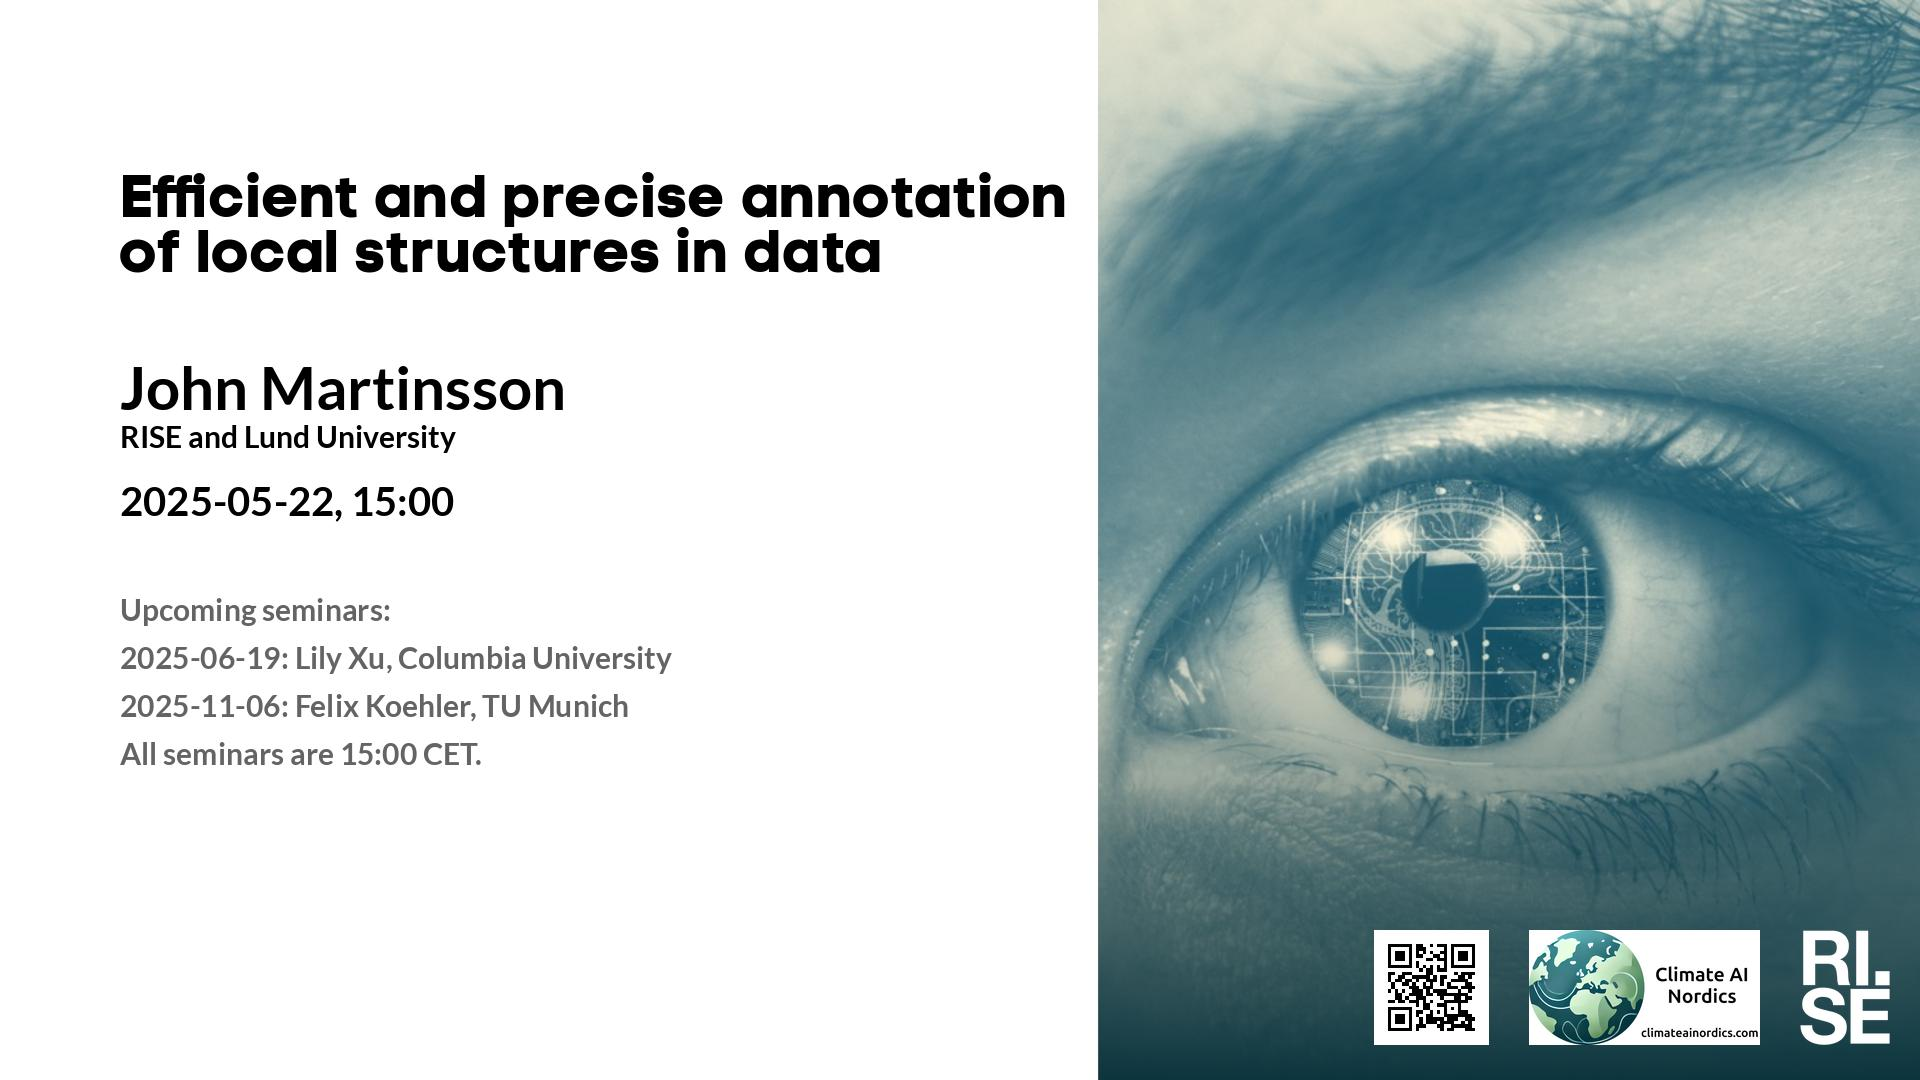
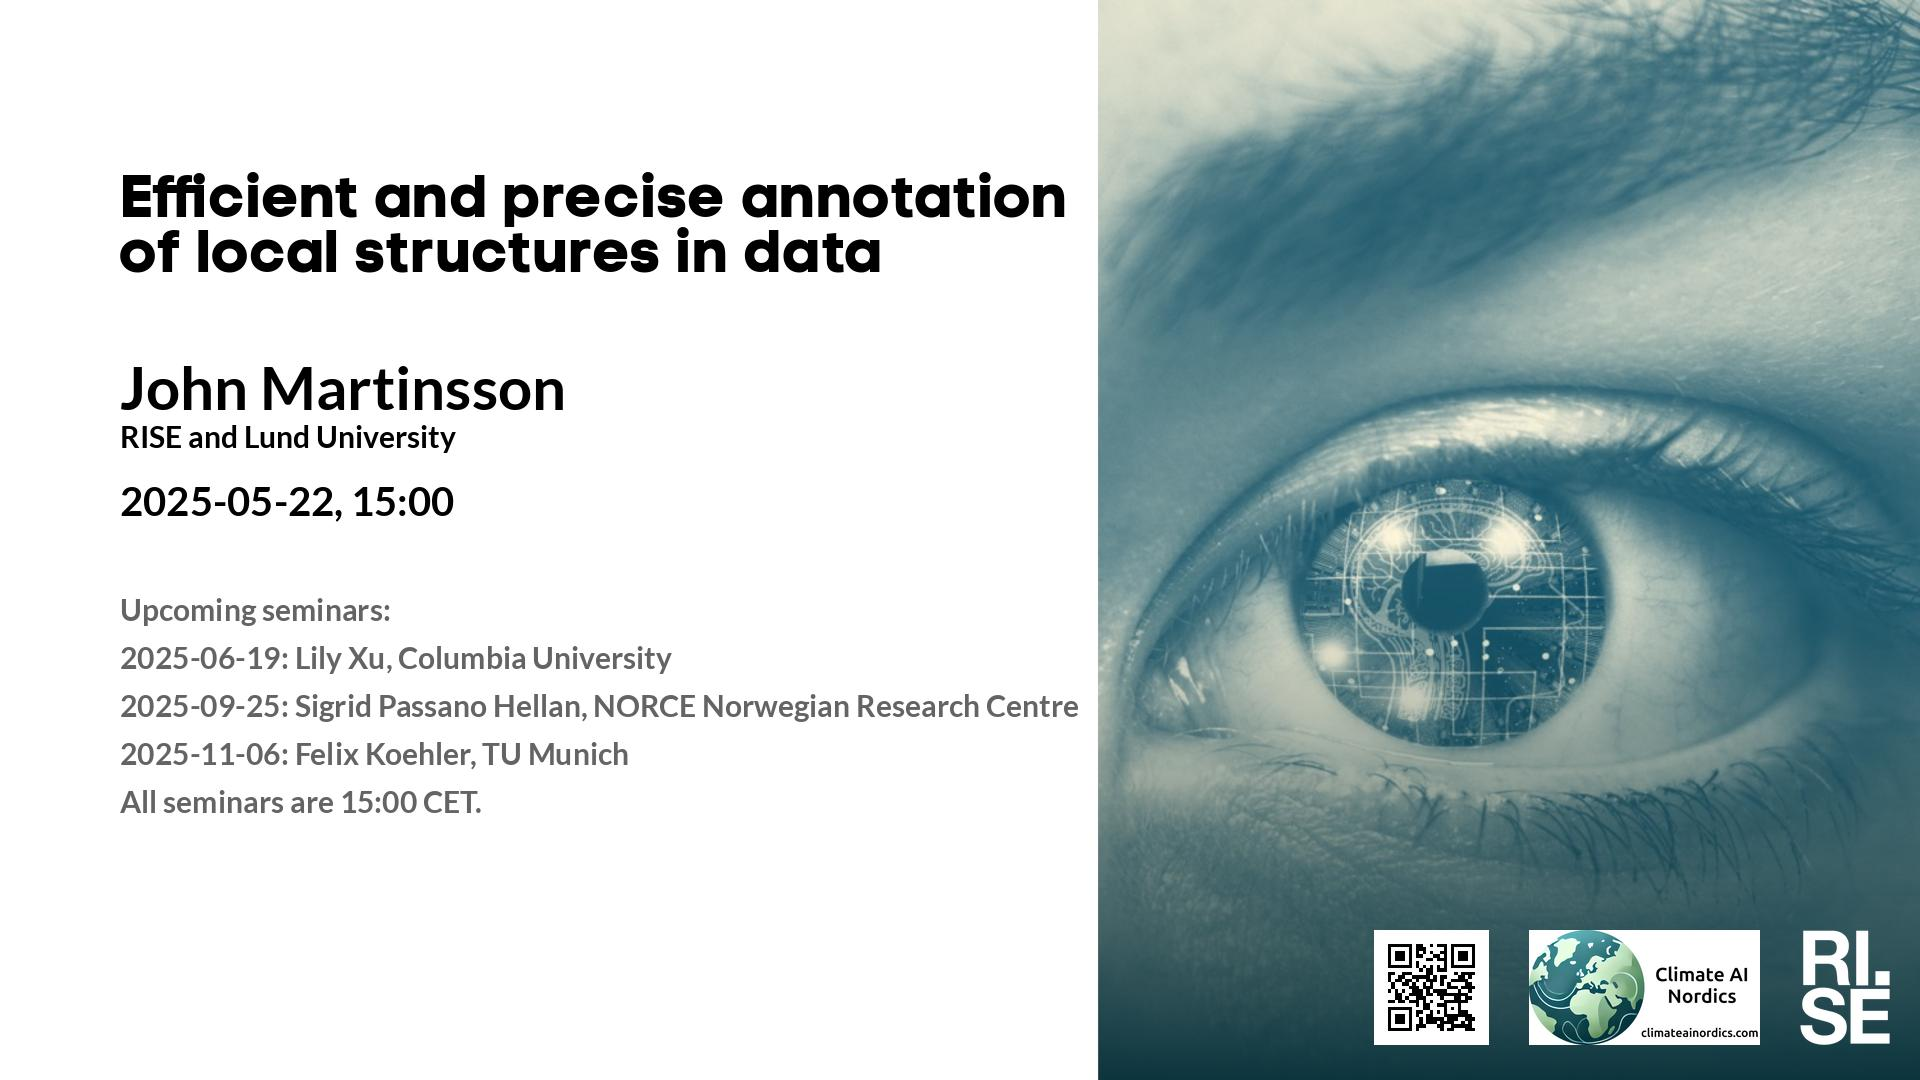
Updated plan on web site.

Changed region(s): [[0.0625, 0.6417, 0.5625, 0.7639]]

diff --git a/lm/2025.md b/lm/2025.md
@@ -30,7 +30,7 @@ table {border-collapse: collapse;}
 |  2025-05-22  |  [John Martinsson, RISE and Lund University](2025-05-22.md)  |  [photo](2025-05-22-photo-john-martinsson.png)  |  [social media ](2025-05-22-social-media-john-martinsson.jpg)  |  [meeting backdrop ](2025-05-22-meeting-backdrop-john-martinsson.jpg)  |  [youtube thumbnail ](2025-05-22-youtube-thumbnail-john-martinsson.jpg)  |  STABP  |
 | <span style="color:red"> 2025-05-29 </span> | <span style="color:red"> Ascension Day  </span> | <span style="color:red">  </span> | <span style="color:red">  </span> | <span style="color:red">  </span> | <span style="color:red">  </span> | <span style="color:red"> CANCELLED </span> |
 | <span style="color:red"> 2025-06-05 </span> | <span style="color:red"> No Seminar </span> | <span style="color:red">  </span> | <span style="color:red">  </span> | <span style="color:red">  </span> | <span style="color:red">  </span> | <span style="color:red"> CANCELLED </span> |
-| <span style="color:grey"> 2025-06-12 </span> | <span style="color:grey"> Georges L. B. ? </span> | <span style="color:grey">  </span> | <span style="color:grey">  </span> | <span style="color:grey">  </span> | <span style="color:grey">  </span> | <span style="color:grey"> S~~TABP~~ </span> |
+| <span style="color:grey"> 2025-06-12 </span> | <span style="color:grey"> Markus P. ? </span> | <span style="color:grey">  </span> | <span style="color:grey">  </span> | <span style="color:grey">  </span> | <span style="color:grey">  </span> | <span style="color:grey"> S~~TABP~~ </span> |
 |  2025-06-19  |  [Lily Xu, Columbia University](2025-06-19.md)  |    |  [social media ](2025-06-19-social-media-lily-xu.jpg)  |  [meeting backdrop ](2025-06-19-meeting-backdrop-lily-xu.jpg)  |  [youtube thumbnail ](2025-06-19-youtube-thumbnail-lily-xu.jpg)  |  S~~TABP~~  |
 | <span style="color:purple"> 2025-08-28 </span> | <span style="color:purple"> *Up for grabs!!!* </span> | <span style="color:purple">  </span> | <span style="color:purple">  </span> | <span style="color:purple">  </span> | <span style="color:purple">  </span> | <span style="color:purple"> ~~STABP~~ </span> |
 | <span style="color:grey"> 2025-09-11 </span> | <span style="color:grey"> Natalie E. ? </span> | <span style="color:grey">  </span> | <span style="color:grey">  </span> | <span style="color:grey">  </span> | <span style="color:grey">  </span> | <span style="color:grey"> S~~TABP~~ </span> |

diff --git a/lm/index.md b/lm/index.md
@@ -30,7 +30,7 @@ table {border-collapse: collapse;}
 |  2025-05-22  |  [John Martinsson, RISE and Lund University](2025-05-22.md)  |  [photo](2025-05-22-photo-john-martinsson.png)  |  [social media ](2025-05-22-social-media-john-martinsson.jpg)  |  [meeting backdrop ](2025-05-22-meeting-backdrop-john-martinsson.jpg)  |  [youtube thumbnail ](2025-05-22-youtube-thumbnail-john-martinsson.jpg)  |  STABP  |
 | <span style="color:red"> 2025-05-29 </span> | <span style="color:red"> Ascension Day  </span> | <span style="color:red">  </span> | <span style="color:red">  </span> | <span style="color:red">  </span> | <span style="color:red">  </span> | <span style="color:red"> CANCELLED </span> |
 | <span style="color:red"> 2025-06-05 </span> | <span style="color:red"> No Seminar </span> | <span style="color:red">  </span> | <span style="color:red">  </span> | <span style="color:red">  </span> | <span style="color:red">  </span> | <span style="color:red"> CANCELLED </span> |
-| <span style="color:grey"> 2025-06-12 </span> | <span style="color:grey"> Georges L. B. ? </span> | <span style="color:grey">  </span> | <span style="color:grey">  </span> | <span style="color:grey">  </span> | <span style="color:grey">  </span> | <span style="color:grey"> S~~TABP~~ </span> |
+| <span style="color:grey"> 2025-06-12 </span> | <span style="color:grey"> Markus P. ? </span> | <span style="color:grey">  </span> | <span style="color:grey">  </span> | <span style="color:grey">  </span> | <span style="color:grey">  </span> | <span style="color:grey"> S~~TABP~~ </span> |
 |  2025-06-19  |  [Lily Xu, Columbia University](2025-06-19.md)  |    |  [social media ](2025-06-19-social-media-lily-xu.jpg)  |  [meeting backdrop ](2025-06-19-meeting-backdrop-lily-xu.jpg)  |  [youtube thumbnail ](2025-06-19-youtube-thumbnail-lily-xu.jpg)  |  S~~TABP~~  |
 | <span style="color:purple"> 2025-08-28 </span> | <span style="color:purple"> *Up for grabs!!!* </span> | <span style="color:purple">  </span> | <span style="color:purple">  </span> | <span style="color:purple">  </span> | <span style="color:purple">  </span> | <span style="color:purple"> ~~STABP~~ </span> |
 | <span style="color:grey"> 2025-09-11 </span> | <span style="color:grey"> Natalie E. ? </span> | <span style="color:grey">  </span> | <span style="color:grey">  </span> | <span style="color:grey">  </span> | <span style="color:grey">  </span> | <span style="color:grey"> S~~TABP~~ </span> |

diff --git a/lm/2025-05-22.md b/lm/2025-05-22.md
@@ -26,6 +26,7 @@ This talk examines how to lower annotation cost and increase label quality when 
 **Upcoming seminars:**
 
 * 2025-06-19: Lily Xu, Columbia University
+* 2025-09-25: Sigrid Passano Hellan, NORCE Norwegian Research Centre
 * 2025-11-06: Felix Koehler, TU Munich
 * All seminars are 15:00 CET.
 
